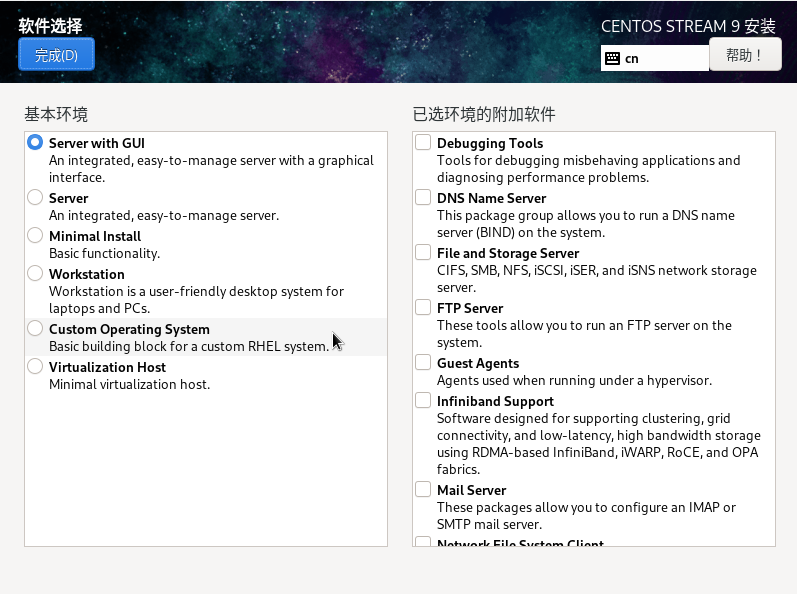
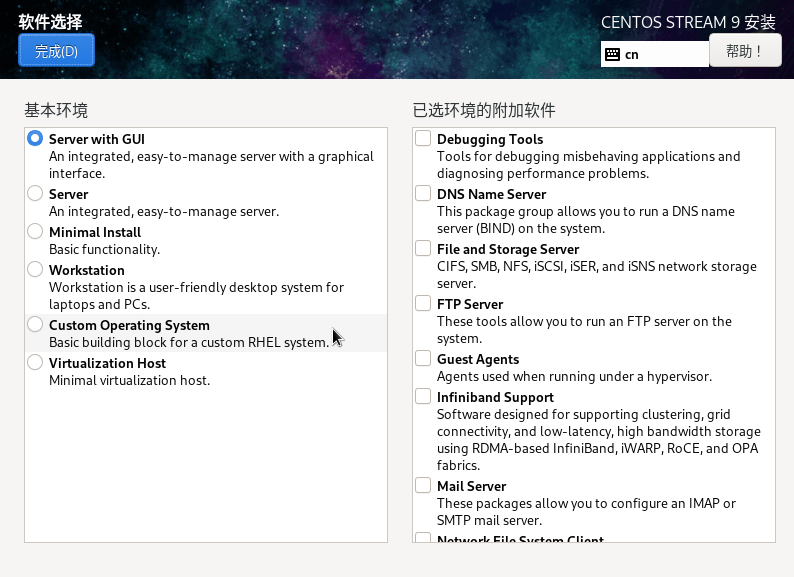
finished cossig default software(group)

diff --git a/index.md b/index.md
@@ -3,6 +3,7 @@
 
 
 ### Table of Contents (sorted by time)
+[CentOS/Fedora 不同的配置默认都安装了什么软件](anaconda_kickstarts)<br>
 [Gopher/Gemini reactions](re.gmi.txt)<br>
 [Gopher/Gemini collections, a quiet web](gopher_collections.gmi.txt)<br>
 [build a nixos live image](nixos)<br>
